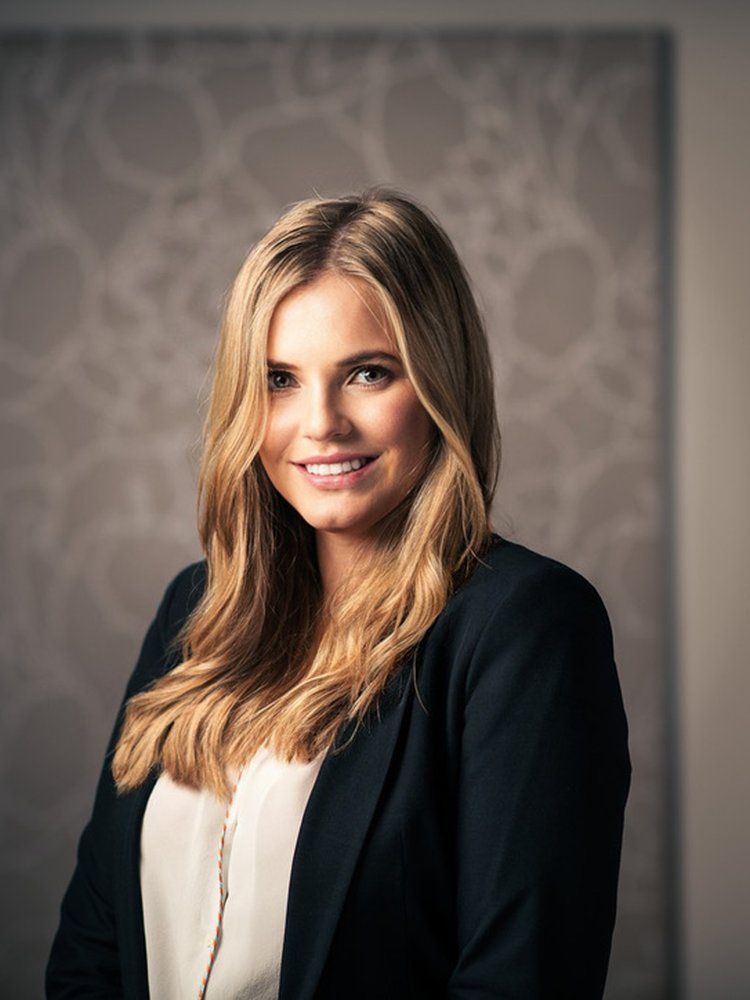
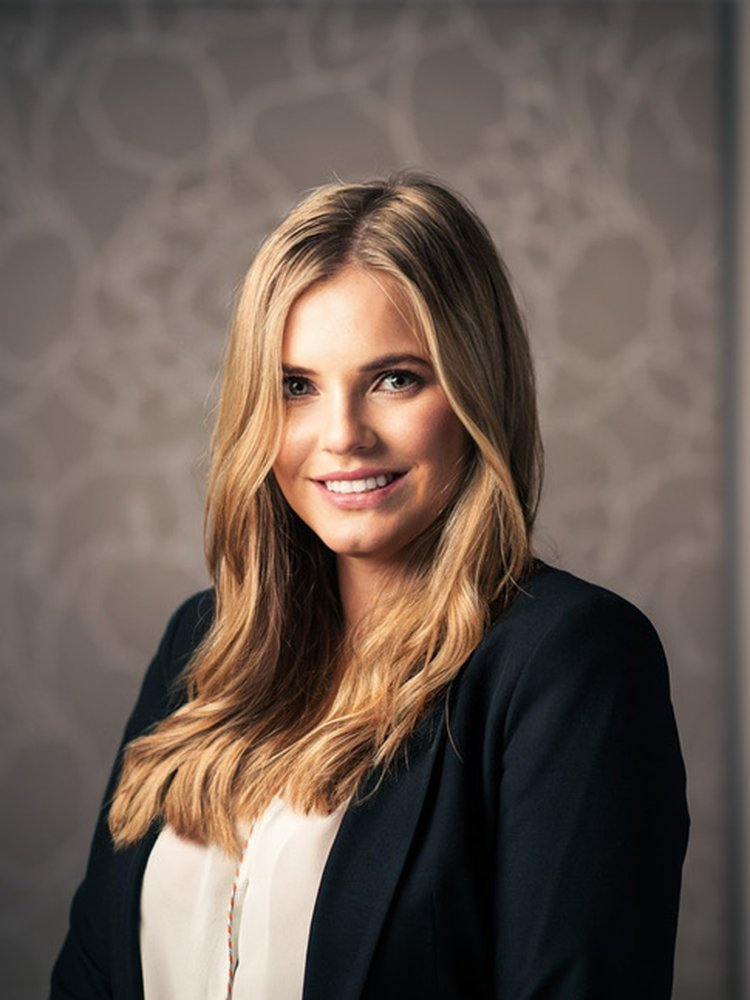
Add files via upload

diff --git a/index.html b/index.html
@@ -24,21 +24,21 @@
 </script>
 <link rel="preconnect" href="https://fonts.googleapis.com">
 <link rel="preconnect" href="https://fonts.gstatic.com" crossorigin>
-<link href="https://fonts.googleapis.com/css2?family=Cormorant+Garamond:ital,wght@0,300;0,400;0,600;1,300;1,400&family=Josefin+Sans:wght@300;400&display=swap" rel="stylesheet">
+<link href="https://fonts.googleapis.com/css2?family=Cormorant+Garamond:wght@400;500;600&family=Inter:wght@400;500&family=Josefin+Sans:wght@400&display=swap" rel="stylesheet">
 <style>
   :root {
     --paper: #FBFAF7;
     --ink: #20201D;
-    --muted: #6E6C64;
-    --faint: #9C9A90;
+    --muted: #514F48;
+    --faint: #7C7A70;
     --hairline: #E5E2DA;
     --accent: #2E4B3F;
   }
   * { box-sizing: border-box; margin: 0; padding: 0; }
   html { scroll-behavior: smooth; }
   body {
-    font-family: 'Josefin Sans', sans-serif;
-    font-weight: 300;
+    font-family: 'Inter', sans-serif;
+    font-weight: 400;
     background: var(--paper);
     color: var(--ink);
     line-height: 1.6;
@@ -48,6 +48,10 @@
 
   a { color: var(--accent); }
   a:focus-visible { outline: 2px solid var(--accent); outline-offset: 3px; }
+
+  .nav-links a, .hero-link, .cv-download, .section-number, .paper-meta, .tag, .cv-updated {
+    font-family: 'Josefin Sans', sans-serif; font-weight: 400;
+  }
 
   nav {
     position: sticky; top: 0; z-index: 10;
@@ -66,7 +70,7 @@
   }
   .nav-links { display: flex; gap: 1.8rem; }
   .nav-links a {
-    font-size: 11px; letter-spacing: 0.18em; text-transform: uppercase;
+    font-size: 11.5px; letter-spacing: 0.18em; text-transform: uppercase;
     color: var(--muted); text-decoration: none; transition: color 0.2s;
   }
   .nav-links a:hover { color: var(--ink); }
@@ -82,18 +86,14 @@
     .hero { animation: none; }
     html { scroll-behavior: auto; }
   }
-  .eyebrow {
-    font-size: 10px; letter-spacing: 0.24em; text-transform: uppercase;
-    color: var(--muted); margin-bottom: 1.4rem;
-  }
   .hero h1 {
     font-family: 'Cormorant Garamond', serif;
-    font-size: clamp(44px, 7vw, 62px); font-weight: 300; font-style: italic;
+    font-size: clamp(44px, 7vw, 62px); font-weight: 500;
     line-height: 1.04; margin-bottom: 1.8rem;
   }
   .hero-tagline {
-    font-size: 13px; letter-spacing: 0.07em; line-height: 2;
-    color: var(--muted); margin-bottom: 2.2rem; max-width: 40ch;
+    font-size: 14px; letter-spacing: 0.05em; line-height: 2;
+    color: var(--muted); margin-bottom: 1.4rem; max-width: 44ch;
   }
   .hero-links { display: flex; gap: 1.6rem; flex-wrap: wrap; }
   .hero-link {
@@ -103,6 +103,11 @@
     transition: opacity 0.2s;
   }
   .hero-link:hover { opacity: 0.55; }
+  .hy { font-family: 'Inter', sans-serif; font-weight: 400; }
+  .hero-interests { font-size: 15px; line-height: 1.75; color: #33322D; margin-bottom: 2rem; max-width: 44ch; }
+  .hero-contact { margin-top: 1.5rem; font-size: 14px; color: var(--muted); letter-spacing: 0.02em; }
+  .hero-contact a { color: var(--accent); text-decoration: none; }
+  .hero-contact a:hover { text-decoration: underline; }
 
   .cv-download {
     display: inline-block; font-size: 11px; letter-spacing: 0.18em; text-transform: uppercase;
@@ -129,10 +134,10 @@
   .section-number { font-size: 10px; letter-spacing: 0.2em; color: var(--faint); }
   .section-header h2 {
     font-family: 'Cormorant Garamond', serif;
-    font-size: 32px; font-weight: 300; font-style: italic;
+    font-size: 32px; font-weight: 500;
   }
 
-  .about-body { font-size: 14.5px; line-height: 2; color: #4A4943; max-width: 660px; }
+  .about-body { font-size: 15.5px; line-height: 1.9; color: #33322D; max-width: 660px; }
   .about-body p { margin-bottom: 1.2rem; }
   .fields { display: flex; gap: 3.5rem; flex-wrap: wrap; margin-top: 2.2rem; }
   .field-group { min-width: 180px; }
@@ -141,7 +146,7 @@
     font-size: 9px; font-weight: 400; letter-spacing: 0.24em; text-transform: uppercase;
     color: var(--faint); margin-bottom: 0.7rem;
   }
-  .field-group p { font-size: 13px; color: var(--muted); line-height: 1.9; }
+  .field-group p { font-size: 14px; color: var(--muted); line-height: 1.9; }
 
   .paper { padding: 2.2rem 0; border-top: 1px solid var(--hairline); }
   .paper:last-of-type { border-bottom: 1px solid var(--hairline); }
@@ -151,10 +156,10 @@
   }
   .paper h3 {
     font-family: 'Cormorant Garamond', serif;
-    font-size: 23px; font-weight: 400; line-height: 1.3; margin-bottom: 0.4rem;
+    font-size: 23px; font-weight: 500; line-height: 1.3; margin-bottom: 0.4rem;
   }
-  .paper-authors { font-size: 12px; color: var(--muted); letter-spacing: 0.05em; margin-bottom: 0.9rem; }
-  .paper-abstract { font-size: 13px; line-height: 1.95; color: #4A4943; max-width: 640px; margin-bottom: 1.1rem; }
+  .paper-authors { font-size: 13px; color: var(--muted); letter-spacing: 0.05em; margin-bottom: 0.9rem; }
+  .paper-abstract { font-size: 14.5px; line-height: 1.85; color: #33322D; max-width: 640px; margin-bottom: 1.1rem; }
   .paper-tags { display: flex; gap: 0.6rem; flex-wrap: wrap; }
   .tag {
     display: inline-block; font-size: 9px; letter-spacing: 0.14em; text-transform: uppercase;
@@ -165,9 +170,9 @@
 
   .refs { display: grid; grid-template-columns: repeat(auto-fit, minmax(240px, 1fr)); gap: 1px; background: var(--hairline); border: 1px solid var(--hairline); }
   .ref { background: #F5F3EE; padding: 1.8rem; }
-  .ref h3 { font-family: 'Cormorant Garamond', serif; font-size: 20px; font-weight: 400; margin-bottom: 0.25rem; }
-  .ref-title { font-size: 11.5px; color: var(--muted); letter-spacing: 0.05em; line-height: 1.7; margin-bottom: 0.9rem; }
-  .ref a { font-size: 11.5px; letter-spacing: 0.03em; text-decoration: none; }
+  .ref h3 { font-family: 'Cormorant Garamond', serif; font-size: 20px; font-weight: 500; margin-bottom: 0.25rem; }
+  .ref-title { font-size: 12.5px; color: var(--muted); letter-spacing: 0.05em; line-height: 1.7; margin-bottom: 0.9rem; }
+  .ref a { font-size: 12.5px; letter-spacing: 0.03em; text-decoration: none; line-height: 1.9; }
   .ref a:hover { text-decoration: underline; }
 
   footer { padding: 3.5rem 0 4rem; border-top: 1px solid var(--hairline); }
@@ -177,7 +182,7 @@
     font-size: 9px; font-weight: 400; letter-spacing: 0.24em; text-transform: uppercase;
     color: var(--faint); margin-bottom: 0.5rem;
   }
-  .contact-item p, .contact-item a { font-size: 13px; color: var(--muted); text-decoration: none; line-height: 1.8; }
+  .contact-item p, .contact-item a { font-size: 14px; color: var(--muted); text-decoration: none; line-height: 1.8; }
   .contact-item a:hover { color: var(--accent); }
   .colophon { margin-top: 3rem; font-size: 10px; letter-spacing: 0.12em; color: var(--faint); }
 
@@ -193,7 +198,7 @@
 
 <nav>
   <div class="nav-inner">
-    <a class="nav-name" href="#top">Milen Arro-Cannarsa</a>
+    <a class="nav-name" href="#top">Milen Arro<span class="hy">-</span>Cannarsa</a>
     <div class="nav-links">
       <a href="#about">About</a>
       <a href="#research">Research</a>
@@ -207,14 +212,14 @@
 
   <header class="hero">
     <div>
-      <p class="eyebrow">PhD Candidate in Economics · Monetary Policy &amp; Business-Cycle Analysis</p>
-      <h1>Milen<br>Arro-Cannarsa</h1>
-      <p class="hero-tagline">University of Bern<br>Research Associate, Study Center Gerzensee<br>Foundation of the Swiss National Bank</p>
+      <h1>Milen<br>Arro<span class="hy">-</span>Cannarsa</h1>
+      <p class="hero-tagline">PhD Candidate in Economics, University of Bern<br>Research Associate, Study Center Gerzensee<br>Foundation of the Swiss National Bank</p>
+      <p class="hero-interests">My research interests lie in monetary policy and business-cycle analysis, with a focus on the Swiss economy.</p>
       <div class="hero-links">
         <a class="hero-link" href="#research">Research</a>
         <a class="hero-link" href="#cv">Curriculum vitae</a>
-        <a class="hero-link" href="mailto:milen.arro@szgerzensee.ch">Contact</a>
       </div>
+      <p class="hero-contact">Contact: <a href="mailto:milen.arro@szgerzensee.ch">milen.arro@szgerzensee.ch</a></p>
     </div>
     <div class="photo">
       <img src="photo.jpg" alt="Portrait of Milen Arro-Cannarsa" onerror="this.style.display='none'; this.nextElementSibling.style.display='flex';">
@@ -228,9 +233,9 @@
       <h2>About</h2>
     </div>
     <div class="about-body">
-      <p>I am a monetary economist completing my PhD at the University of Bern under the supervision of Prof. Pierpaolo Benigno, and a research associate at the Study Center Gerzensee, the foundation of the Swiss National Bank, where I support the doctoral program and the courses for central bankers with exercise sessions and software training.</p>
-      <p>My research gives the safe-haven story a structural framework. In my job market paper, I develop an open-economy New Keynesian model in which foreign appetite for a country's liquid assets jointly produces appreciation, disinflation, and a liquidity trap of foreign origin, and in which the central bank's balance sheet becomes a second policy instrument. In plain terms, the paper answers two questions every Swiss institution lives with: why Swiss interest rates get stuck at low levels, and what moves the franc in a crisis.</p>
-      <p>The other half of my work is empirical. I co-authored an SNB working paper on machine-learning nowcasts of Swiss GDP. Before that, I spent a year in the SNB's business-cycle analysis unit, where I maintained the short-term forecasting models and carried sole responsibility for the foreign-trade forecasts for six months. Theory taught me how business cycles work, whereas forecasting made me fast and good with data.</p>
+      <p>I am a monetary economist, completing my PhD under the supervision of Prof. Pierpaolo Benigno.</p>
+      <p>My job market paper gives the Swiss safe-haven story a structural framework, in which foreign appetite for a country's liquid assets produces appreciation, disinflation, and a liquidity trap, and in which the central bank's balance sheet becomes a second policy instrument. In plain terms, it answers two questions every Swiss institution lives with: why Swiss interest rates get stuck at low levels, and what moves the franc in a crisis.</p>
+      <p>The other half of my work is empirical: an SNB working paper on machine-learning nowcasts of Swiss GDP, and a year in the SNB's business-cycle analysis unit, where I maintained the short-term forecasting models and carried sole responsibility for the foreign-trade forecasts for six months. Theory taught me how business cycles work, whereas forecasting made me fast and good with data.</p>
     </div>
     <div class="fields">
       <div class="field-group">
@@ -244,10 +249,6 @@
       <div class="field-group">
         <h3>Languages</h3>
         <p>German (C2) · English (C2)<br>Estonian (native)<br>Italian (B1) · Russian (B1)</p>
-      </div>
-      <div class="field-group">
-        <h3>Contact</h3>
-        <p><a href="mailto:milen.arro@szgerzensee.ch" style="color: var(--muted); text-decoration: none;">milen.arro@szgerzensee.ch</a></p>
       </div>
     </div>
   </section>
@@ -306,7 +307,8 @@
       <div class="ref">
         <h3>Prof. Pierpaolo Benigno</h3>
         <p class="ref-title">Professor of Economics<br>University of Bern</p>
-        <a href="mailto:pierpaolo.benigno@unibe.ch">pierpaolo.benigno@unibe.ch</a>
+        <a href="mailto:pierpaolo.benigno@unibe.ch">pierpaolo.benigno@unibe.ch</a><br>
+        <a href="https://benigno.ch/" target="_blank" rel="noopener">benigno.ch</a>
       </div>
       <div class="ref">
         <h3>Dr. Matthias Lutz</h3>
@@ -316,7 +318,8 @@
       <div class="ref">
         <h3>Prof. Martin Brown</h3>
         <p class="ref-title">Director<br>Study Center Gerzensee</p>
-        <a href="mailto:martin.brown@szgerzensee.ch">martin.brown@szgerzensee.ch</a>
+        <a href="mailto:martin.brown@szgerzensee.ch">martin.brown@szgerzensee.ch</a><br>
+        <a href="https://sites.google.com/view/martinbrown" target="_blank" rel="noopener">sites.google.com/view/martinbrown</a>
       </div>
     </div>
   </section>
